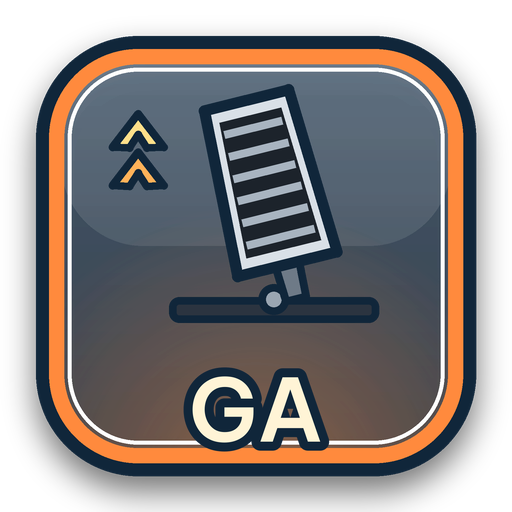
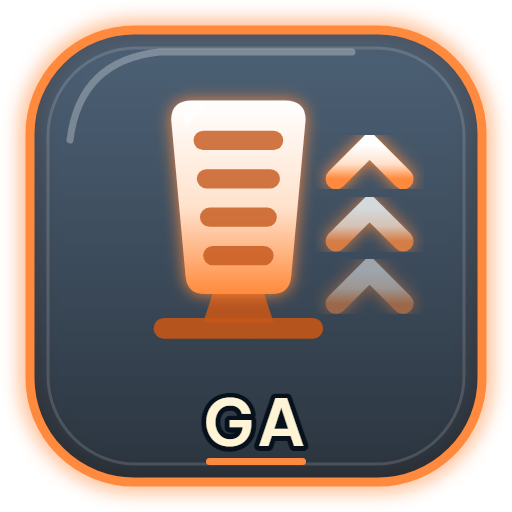
Pho Viet 21.340: gas, P/drift and shield buttons in style A; homepage control images updated

diff --git a/ArtSource/Concepts/Buttons-20261123/nut.html b/ArtSource/Concepts/Buttons-20261123/nut.html
@@ -22,6 +22,9 @@ const BTN = {
   missile: { label: 'TÊN LỬA', acc: '#ff5a4a', light: '#ffd3cc', dark: '#b8231a' },
   jump:    { label: 'NHẢY',    acc: '#ffc53d', light: '#fff1c4', dark: '#c98a0a' },
   reverse: { label: 'LÙI',     acc: '#35c76b', light: '#cdf7dc', dark: '#16843f' },
+  gas:     { label: 'GA',      acc: '#ff8a3d', light: '#ffe2cc', dark: '#c4561a' },   // 21.340
+  stop:    { label: 'P/DRIFT', acc: '#3d8bf0', light: '#d6e8ff', dark: '#1d5bb8' },
+  shield:  { label: 'KHIÊN',   acc: '#33f0d2', light: '#d4fff7', dark: '#0d9c86' },
 };
 
 // ---------- bút vẽ theo mẫu: m = khối chính, a = chi tiết màu nhấn, h = lửa nóng, s = khói, k = chi tiết tối
@@ -220,6 +223,52 @@ function iconReverseDown(P, b) {
   return s;
 }
 
+// 21.340 — GA, P/DRIFT, KHIÊN theo mẫu A (người dùng: «Vẽ lại luôn»)
+function iconGas(P, b) {
+  // bàn đạp ga hình thang (rộng trên, hẹp dưới), 4 rãnh to chống trượt, bản lề dưới + 3 chữ V chỉ lên (tăng tốc)
+  let s = '';
+  s += `<rect x="128" y="344" width="212" height="26" rx="13" ${P.k} opacity=".9"/>`;
+  s += `<path d="M206,300 L190,350 L278,350 L262,300 Z" fill="${b.dark}" opacity=".9"/>`;
+  s += `<path d="M150,96 Q150,72 176,72 L292,72 Q318,72 318,96 L300,292 Q298,314 276,314 L192,314 Q170,314 168,292 Z" ${P.m}/>`;
+  for (let i = 0; i < 4; i++) { const y = 110 + i * 48, inset = i * 4; s += `<rect x="${178 + inset}" y="${y}" width="${112 - inset * 2}" height="24" rx="12" fill="${b.dark}" opacity=".8"/>`; }
+  s += `<path d="M170,98 Q172,86 186,84" fill="none" stroke="#fff" stroke-opacity=".7" stroke-width="10" stroke-linecap="round"/>`;
+  [[398, 300, .5], [398, 222, .78], [398, 144, 1]].forEach(([x, y, o]) =>
+    s += `<path d="M${x - 42},${y + 26} L${x},${y - 16} L${x + 42},${y + 26}" ${P.line(26)} opacity="${o}"/>`);
+  return s;
+}
+function iconStop(P, b) {
+  // ký hiệu phanh tay ( P ) + 2 vệt lốp trượt cong (drift)
+  const cx = 256, cy = 190;
+  let s = '';
+  s += `<path d="M128,342 Q250,292 402,318" fill="none" stroke="${b.acc}" stroke-width="18" stroke-linecap="round" opacity=".55"/>`;
+  s += `<path d="M150,380 Q272,334 418,360" fill="none" stroke="${b.acc}" stroke-width="18" stroke-linecap="round" opacity=".35"/>`;
+  s += `<circle cx="${cx}" cy="${cy}" r="96" fill="${b.dark}" fill-opacity=".35"/>`;
+  s += `<circle cx="${cx}" cy="${cy}" r="96" ${P.line(30)}/>`;
+  const arc = (r, a0, a1) => { const p0 = [cx + r * Math.cos(a0), cy + r * Math.sin(a0)], p1 = [cx + r * Math.cos(a1), cy + r * Math.sin(a1)]; return `M${p0[0].toFixed(1)},${p0[1].toFixed(1)} A${r},${r} 0 0 1 ${p1[0].toFixed(1)},${p1[1].toFixed(1)}`; };
+  const d2r = Math.PI / 180;
+  s += `<path d="${arc(146, 140 * d2r, 220 * d2r)}" ${P.line(24).replace(/url\(#gm[^)]*\)/, b.acc)}/>`;
+  s += `<path d="${arc(146, -40 * d2r, 40 * d2r)}" ${P.line(24).replace(/url\(#gm[^)]*\)/, b.acc)}/>`;
+  s += `<text x="${cx}" y="${cy + 50}" text-anchor="middle" font-family="BVP" font-size="150" fill="url(#gm${MAU}stop)" ${MAU === 'A' ? `filter="url(#glow${MAU}stop)"` : `stroke="${NAVY}" stroke-width="12" paint-order="stroke"`}>P</text>`;
+  return s;
+}
+function iconShield(P, b) {
+  // khiên năng lượng: vỏ khiên sáng, lòng tối vân lục giác, tia sét vàng giữa + tia lửa điện quanh viền
+  let s = `<path d="M256,58 L398,110 Q402,284 256,370 Q110,284 114,110 Z" ${P.m}/>`;
+  s += `<path d="M256,92 L370,132 Q372,268 256,336 Q140,268 142,132 Z" fill="#0b1d2c" fill-opacity=".92"/>`;
+  let hex = '';
+  for (let r = 0; r < 6; r++) for (let c = 0; c < 6; c++) {
+    const x = 156 + c * 40 + (r % 2) * 20, y = 132 + r * 36, h = [];
+    for (let k = 0; k < 6; k++) { const a = Math.PI / 6 + k * Math.PI / 3; h.push((x + 20 * Math.cos(a)).toFixed(1) + ',' + (y + 20 * Math.sin(a)).toFixed(1)); }
+    hex += `<polygon points="${h.join(' ')}"/>`;
+  }
+  s += `<clipPath id="sh${MAU}"><path d="M256,92 L370,132 Q372,268 256,336 Q140,268 142,132 Z"/></clipPath>`;
+  s += `<g clip-path="url(#sh${MAU})" fill="none" stroke="${b.acc}" stroke-width="3" opacity=".45">${hex}</g>`;
+  s += `<polygon points="282,118 196,238 248,238 222,326 318,196 264,196 296,118" fill="#ffe066" stroke="#7a4b00" stroke-width="6" stroke-linejoin="round" ${MAU === 'A' ? 'filter="url(#soft2)"' : ''}/>`;
+  s += `<polygon points="282,118 196,238 248,238 222,326 318,196 264,196 296,118" fill="#fff3a6" stroke="#b37400" stroke-width="5" stroke-linejoin="round"/>`;
+  [[106, 92], [412, 96], [94, 236], [420, 230], [256, 30]].forEach(([x, y], i) => s += `<polygon points="${star(x, y, i === 4 ? 22 : 18, 6, 4, .3)}" fill="${b.light}" filter="url(#glow${MAU}shield)"/>`);
+  return s;
+}
+
 // ---------- tấm nút + nhãn
 function defs(id, b) {
   return `<defs>
@@ -233,6 +282,7 @@ function defs(id, b) {
     <filter id="ring${id}" x="-20%" y="-20%" width="140%" height="140%"><feGaussianBlur stdDeviation="9"/></filter>
     <filter id="hard${id}" x="-20%" y="-20%" width="140%" height="150%"><feOffset dy="12" in="SourceAlpha" result="o"/><feFlood flood-color="#030a12" flood-opacity=".55"/><feComposite in2="o" operator="in"/><feMerge><feMergeNode/><feMergeNode in="SourceGraphic"/></feMerge></filter>
     <filter id="soft" x="-30%" y="-30%" width="160%" height="160%"><feGaussianBlur stdDeviation="8"/></filter>
+    <filter id="soft2" x="-40%" y="-40%" width="180%" height="180%"><feGaussianBlur stdDeviation="14"/></filter>
     <clipPath id="clipB${id}"><rect x="22" y="22" width="468" height="468" rx="46"/></clipPath>
   </defs>`;
 }
@@ -273,6 +323,9 @@ function icon(key, P, b) {
   if (key === 'laser') return iconLaser(P, b);
   if (key === 'missile') return iconMissile(P);
   if (key === 'jump') return iconJump(P);
+  if (key === 'gas') return iconGas(P, b);
+  if (key === 'stop') return iconStop(P, b);
+  if (key === 'shield') return iconShield(P, b);
   return iconReverse(P, b);
 }
 function button(key, size) {

diff --git a/ArtSource/Concepts/Buttons-20261123/ghep.py b/ArtSource/Concepts/Buttons-20261123/ghep.py
@@ -45,7 +45,7 @@ def compose(mau):
 
 
 import sys
-if len(sys.argv) > 1 and sys.argv[1] == 'lazer': ims = None   # 21.338: chỉ ghép LAZER (không vẽ lại tonghop — «HIỆN TẠI» là bộ nút trước 21.338)
+if len(sys.argv) > 1 and sys.argv[1] in ('lazer', 'du'): ims = None   # 21.338: chỉ ghép LAZER (không vẽ lại tonghop — «HIỆN TẠI» là bộ nút trước 21.338)
 else: ims = [compose(m) for m in ('HienTai', 'A', 'B', 'C')]
 sheet = Image.new('RGB', (W * 2 + 12, H * 2 + 12), (20, 24, 28))
 for i, im in enumerate(ims or []): sheet.paste(im, ((i % 2) * (W + 12), (i // 2) * (H + 12)))
@@ -85,3 +85,16 @@ def compose_laser():
 
 if __name__ == '__main__' and len(__import__('sys').argv) > 1 and __import__('sys').argv[1] == 'lazer':
     compose_laser()
+
+
+# 21.340 — đủ 9 nút mẫu A trên bố cục điện thoại: python -X utf8 ghep.py du → out/dienthoai-du9-21340.png
+def compose_all():
+    img = Image.open(os.path.join(HERE, 'raw', 'nen.png')).convert('RGBA').resize((W, H))
+    boxes = {'Gas': gas, 'Stop': stop, 'Shield': shield, 'Left': left, 'Right': right, 'Laser': laser, 'Missile': fire, 'Jump': jump, 'Reverse': rev}
+    for k, box in boxes.items(): put(img, Image.open(os.path.join(HERE, 'raw', f'game-{k}.png')), box)
+    img.convert('RGB').save(os.path.join(HERE, 'out', 'dienthoai-du9-21340.png'))
+    print('ok du')
+
+
+if __name__ == '__main__' and len(__import__('sys').argv) > 1 and __import__('sys').argv[1] == 'du':
+    compose_all()

diff --git a/AgentScripts/Buttons21338.cs b/AgentScripts/Buttons21338.cs
@@ -7,7 +7,7 @@ public static class Buttons21338
 {
     public static string Reimport()
     {
-        foreach (var n in new[] { "Left", "Right", "Missile", "Jump", "Reverse", "Laser" })
+        foreach (var n in new[] { "Left", "Right", "Missile", "Jump", "Reverse", "Laser", "Gas", "Stop", "Shield" })
             AssetDatabase.ImportAsset("Assets/PhoViet/Resources/TouchControls/PV_Btn_" + n + ".png", ImportAssetOptions.ForceUpdate | ImportAssetOptions.ForceSynchronousImport);
         var t = AssetDatabase.LoadAssetAtPath<Texture2D>("Assets/PhoViet/Resources/TouchControls/PV_Btn_Left.png");
         return "ok " + (t ? t.width + "x" + t.height + " " + t.format : "missing");

diff --git a/ArtSource/UI/build_touch_controls.py b/ArtSource/UI/build_touch_controls.py
@@ -379,8 +379,8 @@ def build_button(name, text, accent_hex, icon, size_frac, final=FINAL):
 
 
 # 21.338 (người dùng chọn mẫu A «Kính neon»): 5 nút này nay xuất từ ArtSource/Concepts/Buttons-20261123/nut.html (xuat_game.sh),
-# KHÔNG ghi đè ở đây nữa. Chỉ GA và P/DRIFT còn vẽ bằng script này.
-SVG_BUTTONS = {'Left', 'Right', 'Reverse', 'Jump', 'Missile'}
+# KHÔNG ghi đè ở đây nữa (chỉ còn vẽ ảnh xem trước touch_controls_preview.png).
+SVG_BUTTONS = {'Left', 'Right', 'Reverse', 'Jump', 'Missile', 'Gas', 'Stop'}   # 21.340: cả GA + P/DRIFT → script này không ghi ảnh nút nào nữa
 
 
 def main():

diff --git a/ArtSource/UI/build_shield_button.py b/ArtSource/UI/build_shield_button.py
@@ -8,6 +8,10 @@ Icon (vẽ 3× rồi thu nhỏ, chi tiết):
   • Vệt bóng kính chéo trên vai trái; 4 tia điện lởm chởm xẹt quanh mép khiên + chớp sao 4 cánh + tia lửa nhỏ.
 Chạy:  python ArtSource/UI/build_shield_button.py   →  Assets/PhoViet/Resources/TouchControls/PV_Btn_Shield.png (512²)
 """
+import sys as _sys
+if '--force' not in _sys.argv:
+    _sys.exit('21.339/21.340: PV_Btn_Shield.png nay xuất từ ArtSource/Concepts/Buttons-20261123/xuat_game.sh (mẫu A). Thêm --force nếu thật sự muốn vẽ lại nút cũ.')
+
 import math
 import os
 import random

diff --git a/ArtSource/UI/build_laser_button.py b/ArtSource/UI/build_laser_button.py
@@ -4,6 +4,10 @@ Icon: siêu xe xanh nhìn ngang (như nút NHẢY) phóng 2 tia lazer đỏ từ
 hai tia tỏa nhẹ, chớp sáng ở đầu đèn và chớp sao chỗ tia trúng, vài tia lửa.
 Chạy:  python ArtSource/UI/build_laser_button.py   →  Assets/PhoViet/Resources/TouchControls/PV_Btn_Laser.png (512²)
 """
+import sys as _sys
+if '--force' not in _sys.argv:
+    _sys.exit('21.339/21.340: PV_Btn_Laser.png nay xuất từ ArtSource/Concepts/Buttons-20261123/xuat_game.sh (mẫu A). Thêm --force nếu thật sự muốn vẽ lại nút cũ.')
+
 import math
 import os
 import sys

diff --git a/huongdan.md b/huongdan.md
@@ -6302,3 +6302,19 @@ Thiết kế cửa sổ của mục này đã được khôi phục về mẫu t
   - GA, P/DRIFT, KHIÊN vẫn kiểu cũ.
   - Ảnh nút ở trang chủ (`Assets/WebGLTemplates/PhoVietPWA/controls/btn-*.png`) vẫn là bộ cũ, có hình xe xanh.
   - Chưa phát hành (cùng 21.336–21.338).
+
+## 21.340. Vẽ lại GA, P/DRIFT, KHIÊN theo mẫu A + ảnh nút trang chủ (23/11/2026, Claude Code)
+
+- **Người dùng:** «Vẽ lại luôn» GA, P/DRIFT, KHIÊN và ảnh nút trang chủ theo mẫu A.
+- **Biểu tượng mới (`nut.html`: `iconGas`, `iconStop`, `iconShield`; giữ màu nhấn cũ):**
+  - **GA (cam):** bàn đạp ga hình thang, 4 rãnh chống trượt, bản lề dưới, 3 chữ V chỉ lên (tăng tốc). Bản đầu trông như micro nên đã vẽ lại.
+  - **P/DRIFT (xanh dương):** ký hiệu phanh tay ( P ) phát sáng, dưới có 2 vệt lốp trượt cong.
+  - **KHIÊN (ngọc):** vỏ khiên sáng, lòng tối có vân lục giác, tia sét vàng ở giữa, tia lửa điện quanh viền.
+- **Xuất:** `xuat_game.sh` (không tham số) xuất đủ 9 nút mẫu A vào `Resources/TouchControls/PV_Btn_*.png` (512²). Cũng thu nhỏ 8 ảnh nút trang chủ `Assets/WebGLTemplates/PhoVietPWA/controls/btn-*.png` (160²; trang chủ không có P/DRIFT).
+- **Chặn ghi đè:**
+  - `build_touch_controls.py` không ghi ảnh nút nào nữa (`SVG_BUTTONS` gồm cả Gas, Stop).
+  - `build_laser_button.py` và `build_shield_button.py` dừng ngay, trừ khi chạy với `--force`.
+- **Kiểm tra:**
+  - `Buttons21338.Reimport` (đã thêm Gas, Stop, Shield) → Play → `Show`. Ảnh `out/unity-du9-21340.png`: 9 nút mới hiện đúng, console không lỗi. Editor máy tính vẫn xếp nút kiểu máy tính (NHẢY chồng dưới GA), như trước.
+  - Bố cục điện thoại: `ghep.py du` → `out/dienthoai-du9-21340.png`.
+- **Trạng thái:** đã commit, chưa phát hành. Khi phát hành nhớ ghi vào «Bản cập nhật»: nút điều khiển mới, xe vàng, xe tăng nổ tung, NPC né sét.
